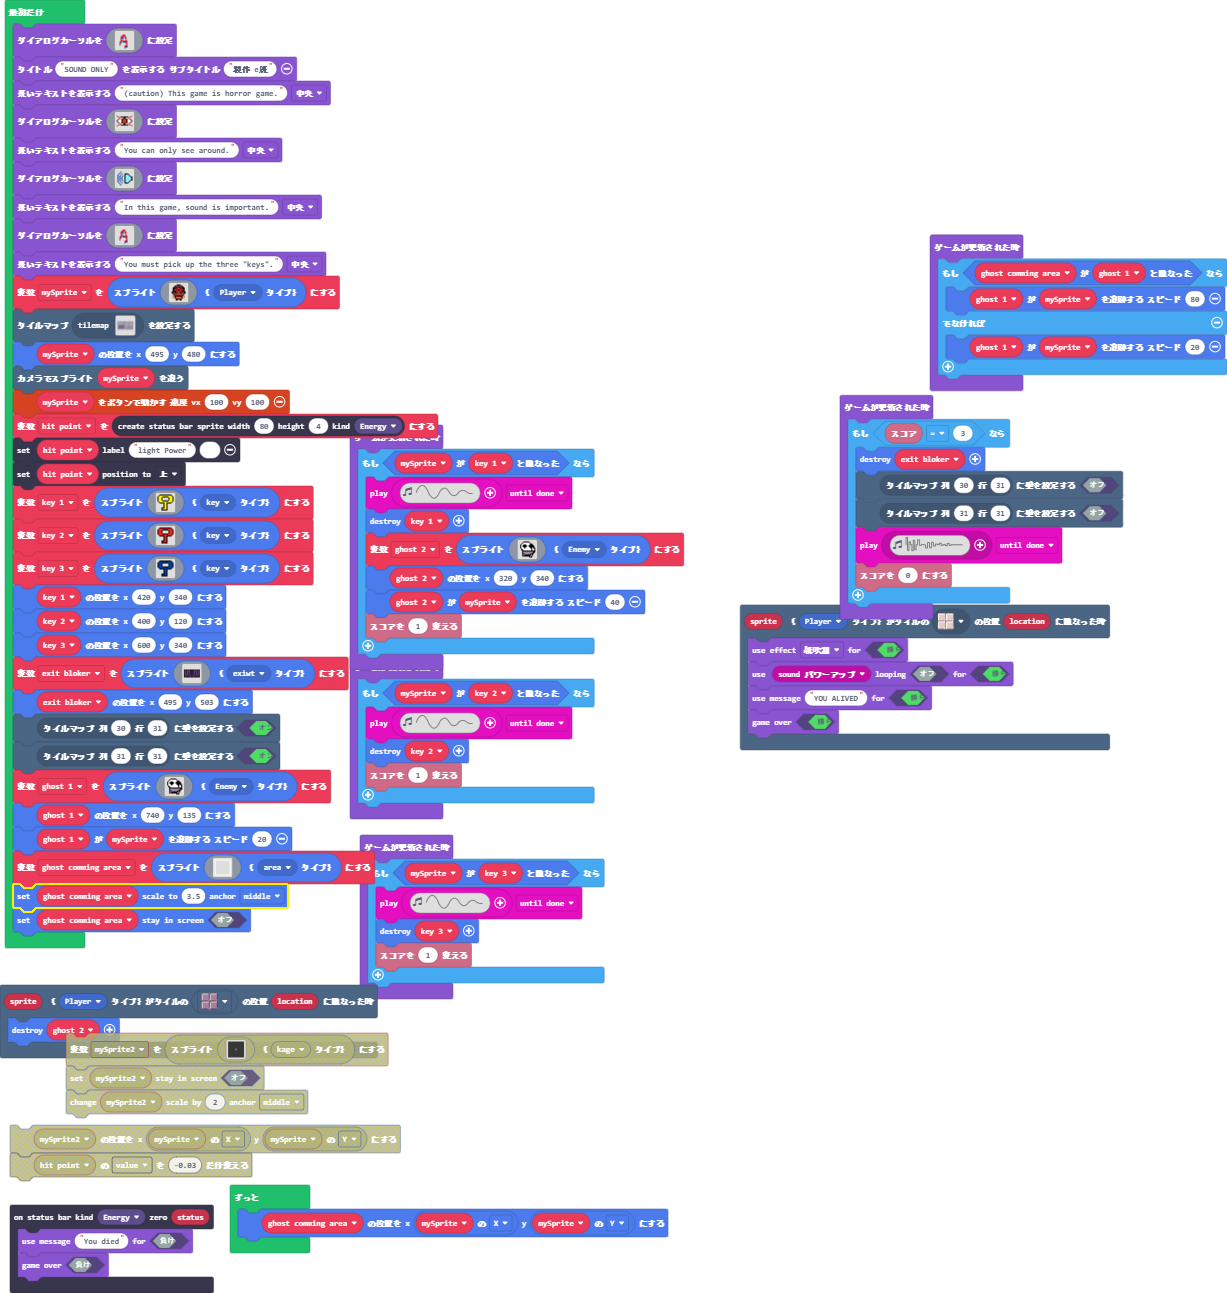
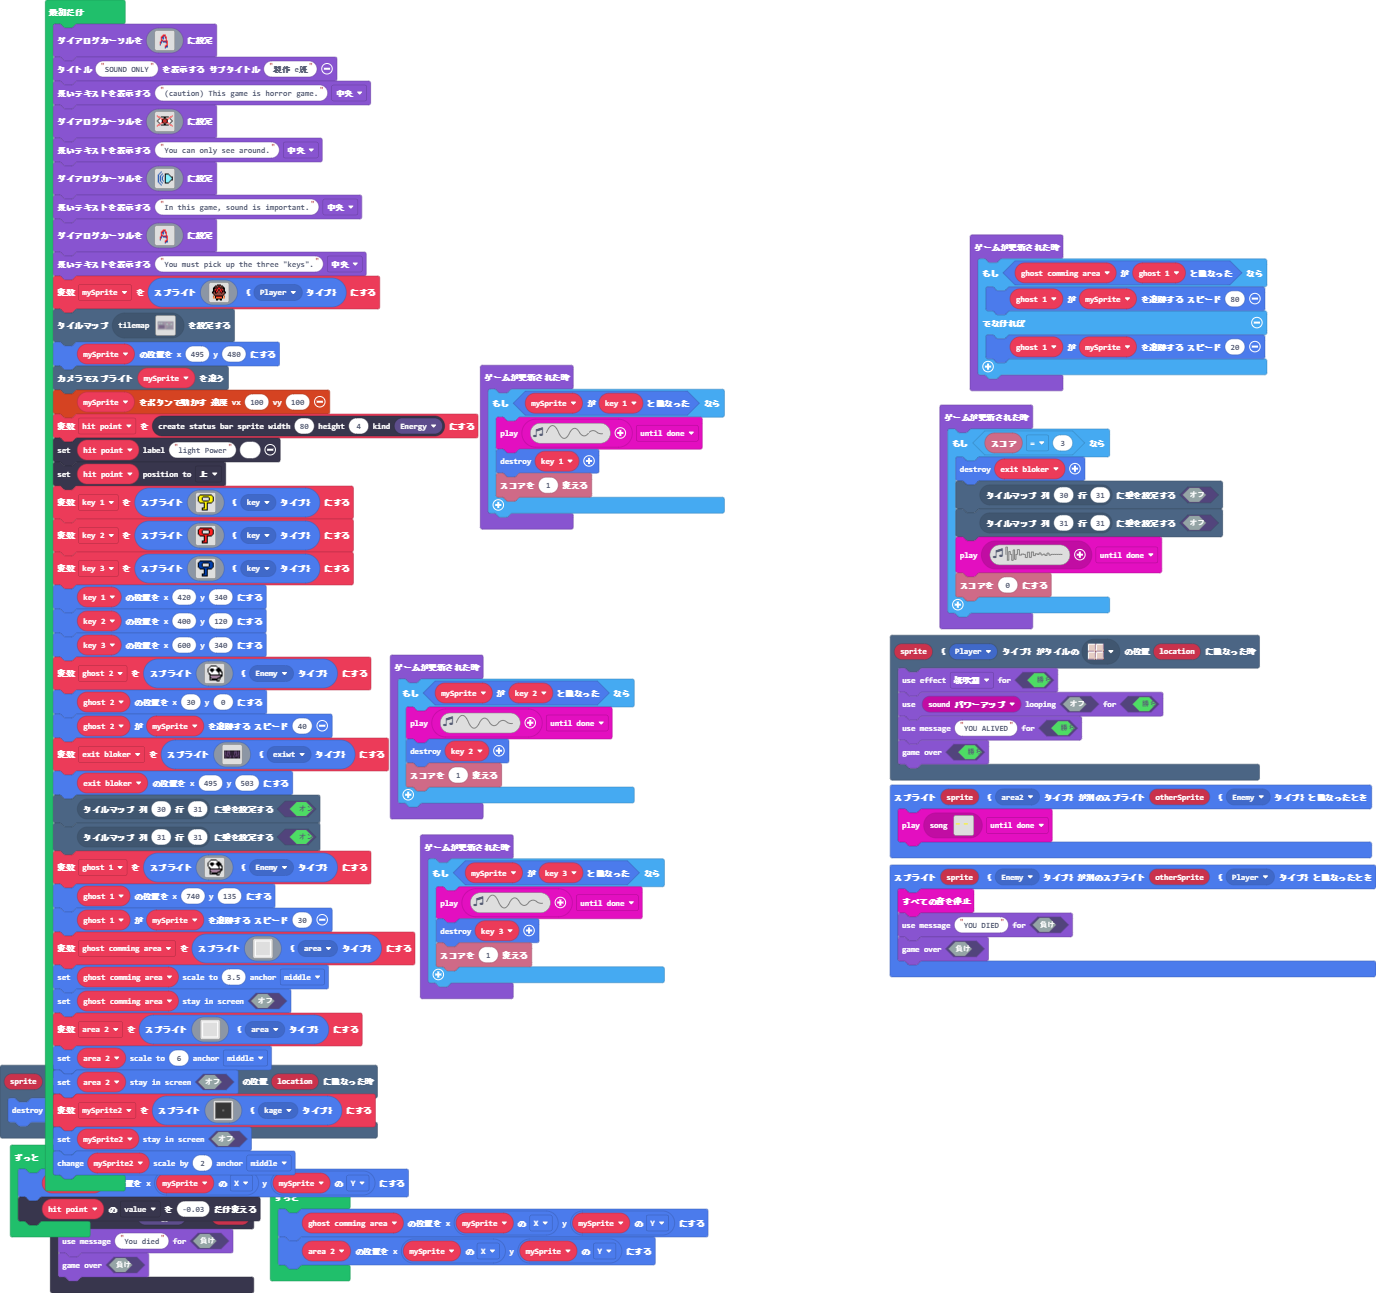
更新 main.blocks, main.ts

diff --git a/main.ts b/main.ts
@@ -5,6 +5,7 @@ namespace SpriteKind {
     export const key = SpriteKind.create()
     export const exiwt = SpriteKind.create()
     export const area = SpriteKind.create()
+    export const area2 = SpriteKind.create()
 }
 scene.onOverlapTile(SpriteKind.Player, sprites.dungeon.floorLight0, function (sprite, location) {
     game.setGameOverEffect(true, effects.confetti)
@@ -14,6 +15,14 @@ scene.onOverlapTile(SpriteKind.Player, sprites.dungeon.floorLight0, function (sp
 })
 scene.onOverlapTile(SpriteKind.Player, sprites.dungeon.floorDark0, function (sprite, location) {
     sprites.destroy(ghost_2)
+})
+sprites.onOverlap(SpriteKind.area2, SpriteKind.Enemy, function (sprite, otherSprite) {
[1 lines of base64/hex data omitted]
+})
+sprites.onOverlap(SpriteKind.Enemy, SpriteKind.Player, function (sprite, otherSprite) {
+    music.stopAllSounds()
+    game.setGameOverMessage(false, "YOU DIED")
+    game.gameOver(false)
 })
 statusbars.onZero(StatusBarKind.Energy, function (status) {
     game.setGameOverMessage(false, "You died")
@@ -128,13 +137,16 @@ let key_3 = sprites.create(assets.image`myImage`, SpriteKind.key)
 key_1.setPosition(420, 340)
 key_2.setPosition(400, 120)
 key_3.setPosition(600, 340)
+ghost_2 = sprites.create(assets.image`myImage4`, SpriteKind.Enemy)
+ghost_2.setPosition(30, 0)
+ghost_2.follow(mySprite, 40)
 let exit_bloker = sprites.create(assets.image`myImage2`, SpriteKind.exiwt)
 exit_bloker.setPosition(495, 503)
 tiles.setWallAt(tiles.getTileLocation(30, 31), true)
 tiles.setWallAt(tiles.getTileLocation(31, 31), true)
 let ghost_1 = sprites.create(assets.image`myImage4`, SpriteKind.Enemy)
 ghost_1.setPosition(740, 135)
-ghost_1.follow(mySprite, 20)
+ghost_1.follow(mySprite, 30)
 let ghost_comming_area = sprites.create(img`
     1 1 1 1 1 1 1 1 1 1 1 1 1 1 1 1 
     1 . . . . . . . . . . . . . . 1 
@@ -155,11 +167,170 @@ let ghost_comming_area = sprites.create(img`
     `, SpriteKind.area)
 ghost_comming_area.setScale(3.5, ScaleAnchor.Middle)
 ghost_comming_area.setStayInScreen(false)
+let area_2 = sprites.create(img`
+    1 1 1 1 1 1 1 1 1 1 1 1 1 1 1 1 
+    1 . . . . . . . . . . . . . . 1 
+    1 . . . . . . . . . . . . . . 1 
+    1 . . . . . . . . . . . . . . 1 
+    1 . . . . . . . . . . . . . . 1 
+    1 . . . . . . . . . . . . . . 1 
+    1 . . . . . . . . . . . . . . 1 
+    1 . . . . . . . . . . . . . . 1 
+    1 . . . . . . . . . . . . . . 1 
+    1 . . . . . . . . . . . . . . 1 
+    1 . . . . . . . . . . . . . . 1 
+    1 . . . . . . . . . . . . . . 1 
+    1 . . . . . . . . . . . . . . 1 
+    1 . . . . . . . . . . . . . . 1 
+    1 . . . . . . . . . . . . . . 1 
+    1 1 1 1 1 1 1 1 1 1 1 1 1 1 1 1 
+    `, SpriteKind.area2)
+area_2.setScale(6, ScaleAnchor.Middle)
+area_2.setStayInScreen(false)
+let mySprite2 = sprites.create(img`
+    ffffffffffffffffffffffffffffffffffffffffffffffffffffffffffffffffffffffffffffffffffffffffffffffffffffffffffffffffffffffffffffffff
+    ffffffffffffffffffffffffffffffffffffffffffffffffffffffffffffffffffffffffffffffffffffffffffffffffffffffffffffffffffffffffffffffff
+    ffffffffffffffffffffffffffffffffffffffffffffffffffffffffffffffffffffffffffffffffffffffffffffffffffffffffffffffffffffffffffffffff
+    ffffffffffffffffffffffffffffffffffffffffffffffffffffffffffffffffffffffffffffffffffffffffffffffffffffffffffffffffffffffffffffffff
+    ffffffffffffffffffffffffffffffffffffffffffffffffffffffffffffffffffffffffffffffffffffffffffffffffffffffffffffffffffffffffffffffff
+    ffffffffffffffffffffffffffffffffffffffffffffffffffffffffffffffffffffffffffffffffffffffffffffffffffffffffffffffffffffffffffffffff
+    ffffffffffffffffffffffffffffffffffffffffffffffffffffffffffffffffffffffffffffffffffffffffffffffffffffffffffffffffffffffffffffffff
+    ffffffffffffffffffffffffffffffffffffffffffffffffffffffffffffffffffffffffffffffffffffffffffffffffffffffffffffffffffffffffffffffff
+    ffffffffffffffffffffffffffffffffffffffffffffffffffffffffffffffffffffffffffffffffffffffffffffffffffffffffffffffffffffffffffffffff
+    ffffffffffffffffffffffffffffffffffffffffffffffffffffffffffffffffffffffffffffffffffffffffffffffffffffffffffffffffffffffffffffffff
+    ffffffffffffffffffffffffffffffffffffffffffffffffffffffffffffffffffffffffffffffffffffffffffffffffffffffffffffffffffffffffffffffff
+    ffffffffffffffffffffffffffffffffffffffffffffffffffffffffffffffffffffffffffffffffffffffffffffffffffffffffffffffffffffffffffffffff
+    ffffffffffffffffffffffffffffffffffffffffffffffffffffffffffffffffffffffffffffffffffffffffffffffffffffffffffffffffffffffffffffffff
+    ffffffffffffffffffffffffffffffffffffffffffffffffffffffffffffffffffffffffffffffffffffffffffffffffffffffffffffffffffffffffffffffff
+    ffffffffffffffffffffffffffffffffffffffffffffffffffffffffffffffffffffffffffffffffffffffffffffffffffffffffffffffffffffffffffffffff
+    ffffffffffffffffffffffffffffffffffffffffffffffffffffffffffffffffffffffffffffffffffffffffffffffffffffffffffffffffffffffffffffffff
+    ffffffffffffffffffffffffffffffffffffffffffffffffffffffffffffffffffffffffffffffffffffffffffffffffffffffffffffffffffffffffffffffff
+    ffffffffffffffffffffffffffffffffffffffffffffffffffffffffffffffffffffffffffffffffffffffffffffffffffffffffffffffffffffffffffffffff
+    ffffffffffffffffffffffffffffffffffffffffffffffffffffffffffffffffffffffffffffffffffffffffffffffffffffffffffffffffffffffffffffffff
+    ffffffffffffffffffffffffffffffffffffffffffffffffffffffffffffffffffffffffffffffffffffffffffffffffffffffffffffffffffffffffffffffff
+    ffffffffffffffffffffffffffffffffffffffffffffffffffffffffffffffffffffffffffffffffffffffffffffffffffffffffffffffffffffffffffffffff
+    ffffffffffffffffffffffffffffffffffffffffffffffffffffffffffffffffffffffffffffffffffffffffffffffffffffffffffffffffffffffffffffffff
+    ffffffffffffffffffffffffffffffffffffffffffffffffffffffffffffffffffffffffffffffffffffffffffffffffffffffffffffffffffffffffffffffff
+    ffffffffffffffffffffffffffffffffffffffffffffffffffffffffffffffffffffffffffffffffffffffffffffffffffffffffffffffffffffffffffffffff
+    ffffffffffffffffffffffffffffffffffffffffffffffffffffffffffffffffffffffffffffffffffffffffffffffffffffffffffffffffffffffffffffffff
+    ffffffffffffffffffffffffffffffffffffffffffffffffffffffffffffffffffffffffffffffffffffffffffffffffffffffffffffffffffffffffffffffff
+    ffffffffffffffffffffffffffffffffffffffffffffffffffffffffffffffffffffffffffffffffffffffffffffffffffffffffffffffffffffffffffffffff
+    ffffffffffffffffffffffffffffffffffffffffffffffffffffffffffffffffffffffffffffffffffffffffffffffffffffffffffffffffffffffffffffffff
+    ffffffffffffffffffffffffffffffffffffffffffffffffffffffffffffffffffffffffffffffffffffffffffffffffffffffffffffffffffffffffffffffff
+    ffffffffffffffffffffffffffffffffffffffffffffffffffffffffffffffffffffffffffffffffffffffffffffffffffffffffffffffffffffffffffffffff
+    ffffffffffffffffffffffffffffffffffffffffffffffffffffffffffffffffffffffffffffffffffffffffffffffffffffffffffffffffffffffffffffffff
+    ffffffffffffffffffffffffffffffffffffffffffffffffffffffffffffffffffffffffffffffffffffffffffffffffffffffffffffffffffffffffffffffff
+    ffffffffffffffffffffffffffffffffffffffffffffffffffffffffffffffffffffffffffffffffffffffffffffffffffffffffffffffffffffffffffffffff
+    ffffffffffffffffffffffffffffffffffffffffffffffffffffffffffffffffffffffffffffffffffffffffffffffffffffffffffffffffffffffffffffffff
+    ffffffffffffffffffffffffffffffffffffffffffffffffffffffffffffffffffffffffffffffffffffffffffffffffffffffffffffffffffffffffffffffff
+    ffffffffffffffffffffffffffffffffffffffffffffffffffffffffffffffffffffffffffffffffffffffffffffffffffffffffffffffffffffffffffffffff
+    ffffffffffffffffffffffffffffffffffffffffffffffffffffffffffffffffffffffffffffffffffffffffffffffffffffffffffffffffffffffffffffffff
+    ffffffffffffffffffffffffffffffffffffffffffffffffffffffffffffffffffffffffffffffffffffffffffffffffffffffffffffffffffffffffffffffff
+    ffffffffffffffffffffffffffffffffffffffffffffffffffffffffffffffffffffffffffffffffffffffffffffffffffffffffffffffffffffffffffffffff
+    ffffffffffffffffffffffffffffffffffffffffffffffffffffffffffffffffffffffffffffffffffffffffffffffffffffffffffffffffffffffffffffffff
+    ffffffffffffffffffffffffffffffffffffffffffffffffffffffffffffffffffffffffffffffffffffffffffffffffffffffffffffffffffffffffffffffff
+    ffffffffffffffffffffffffffffffffffffffffffffffffffffffffffffffffffffffffffffffffffffffffffffffffffffffffffffffffffffffffffffffff
+    ffffffffffffffffffffffffffffffffffffffffffffffffffffffffffffffffffffffffffffffffffffffffffffffffffffffffffffffffffffffffffffffff
+    ffffffffffffffffffffffffffffffffffffffffffffffffffffffffffffffffffffffffffffffffffffffffffffffffffffffffffffffffffffffffffffffff
+    ffffffffffffffffffffffffffffffffffffffffffffffffffffffffffffffffffffffffffffffffffffffffffffffffffffffffffffffffffffffffffffffff
+    ffffffffffffffffffffffffffffffffffffffffffffffffffffffffffffffffffffffffffffffffffffffffffffffffffffffffffffffffffffffffffffffff
+    ffffffffffffffffffffffffffffffffffffffffffffffffffffffffffffffffffffffffffffffffffffffffffffffffffffffffffffffffffffffffffffffff
+    ffffffffffffffffffffffffffffffffffffffffffffffffffffffffffffffffffffffffffffffffffffffffffffffffffffffffffffffffffffffffffffffff
+    ffffffffffffffffffffffffffffffffffffffffffffffffffffffffffffffffffffffffffffffffffffffffffffffffffffffffffffffffffffffffffffffff
+    ffffffffffffffffffffffffffffffffffffffffffffffffffffffffffffffffffffffffffffffffffffffffffffffffffffffffffffffffffffffffffffffff
+    ffffffffffffffffffffffffffffffffffffffffffffffffffffffffffffffffffffffffffffffffffffffffffffffffffffffffffffffffffffffffffffffff
+    ffffffffffffffffffffffffffffffffffffffffffffffffffffffffffffffffffffffffffffffffffffffffffffffffffffffffffffffffffffffffffffffff
+    ffffffffffffffffffffffffffffffffffffffffffffffffffffffffffffffffffffffffffffffffffffffffffffffffffffffffffffffffffffffffffffffff
+    ffffffffffffffffffffffffffffffffffffffffffffffffffffffffffffffffffffffffffffffffffffffffffffffffffffffffffffffffffffffffffffffff
+    ffffffffffffffffffffffffffffffffffffffffffffffffffffffffffffffffffffffffffffffffffffffffffffffffffffffffffffffffffffffffffffffff
+    ffffffffffffffffffffffffffffffffffffffffffffffffffffffffffffffffffffffffffffffffffffffffffffffffffffffffffffffffffffffffffffffff
+    ffffffffffffffffffffffffffffffffffffffffffffffffffffffffffffffffffffffffffffffffffffffffffffffffffffffffffffffffffffffffffffffff
+    ffffffffffffffffffffffffffffffffffffffffffffffffffffffffffffffffffffffffffffffffffffffffffffffffffffffffffffffffffffffffffffffff
+    ffffffffffffffffffffffffffffffffffffffffffffffffffffffffffff.......fffffffffffffffffffffffffffffffffffffffffffffffffffffffffffff
+    fffffffffffffffffffffffffffffffffffffffffffffffffffffffffff.........ffffffffffffffffffffffffffffffffffffffffffffffffffffffffffff
+    ffffffffffffffffffffffffffffffffffffffffffffffffffffffffff...........fffffffffffffffffffffffffffffffffffffffffffffffffffffffffff
+    ffffffffffffffffffffffffffffffffffffffffffffffffffffffffff...........fffffffffffffffffffffffffffffffffffffffffffffffffffffffffff
+    ffffffffffffffffffffffffffffffffffffffffffffffffffffffffff...........fffffffffffffffffffffffffffffffffffffffffffffffffffffffffff
+    ffffffffffffffffffffffffffffffffffffffffffffffffffffffffff...........fffffffffffffffffffffffffffffffffffffffffffffffffffffffffff
+    ffffffffffffffffffffffffffffffffffffffffffffffffffffffffff...........fffffffffffffffffffffffffffffffffffffffffffffffffffffffffff
+    ffffffffffffffffffffffffffffffffffffffffffffffffffffffffff...........fffffffffffffffffffffffffffffffffffffffffffffffffffffffffff
+    ffffffffffffffffffffffffffffffffffffffffffffffffffffffffff...........fffffffffffffffffffffffffffffffffffffffffffffffffffffffffff
+    fffffffffffffffffffffffffffffffffffffffffffffffffffffffffff.........ffffffffffffffffffffffffffffffffffffffffffffffffffffffffffff
+    ffffffffffffffffffffffffffffffffffffffffffffffffffffffffffff.......fffffffffffffffffffffffffffffffffffffffffffffffffffffffffffff
+    ffffffffffffffffffffffffffffffffffffffffffffffffffffffffffffffffffffffffffffffffffffffffffffffffffffffffffffffffffffffffffffffff
+    ffffffffffffffffffffffffffffffffffffffffffffffffffffffffffffffffffffffffffffffffffffffffffffffffffffffffffffffffffffffffffffffff
+    ffffffffffffffffffffffffffffffffffffffffffffffffffffffffffffffffffffffffffffffffffffffffffffffffffffffffffffffffffffffffffffffff
+    ffffffffffffffffffffffffffffffffffffffffffffffffffffffffffffffffffffffffffffffffffffffffffffffffffffffffffffffffffffffffffffffff
+    ffffffffffffffffffffffffffffffffffffffffffffffffffffffffffffffffffffffffffffffffffffffffffffffffffffffffffffffffffffffffffffffff
+    ffffffffffffffffffffffffffffffffffffffffffffffffffffffffffffffffffffffffffffffffffffffffffffffffffffffffffffffffffffffffffffffff
+    ffffffffffffffffffffffffffffffffffffffffffffffffffffffffffffffffffffffffffffffffffffffffffffffffffffffffffffffffffffffffffffffff
+    ffffffffffffffffffffffffffffffffffffffffffffffffffffffffffffffffffffffffffffffffffffffffffffffffffffffffffffffffffffffffffffffff
+    ffffffffffffffffffffffffffffffffffffffffffffffffffffffffffffffffffffffffffffffffffffffffffffffffffffffffffffffffffffffffffffffff
+    ffffffffffffffffffffffffffffffffffffffffffffffffffffffffffffffffffffffffffffffffffffffffffffffffffffffffffffffffffffffffffffffff
+    ffffffffffffffffffffffffffffffffffffffffffffffffffffffffffffffffffffffffffffffffffffffffffffffffffffffffffffffffffffffffffffffff
+    ffffffffffffffffffffffffffffffffffffffffffffffffffffffffffffffffffffffffffffffffffffffffffffffffffffffffffffffffffffffffffffffff
+    ffffffffffffffffffffffffffffffffffffffffffffffffffffffffffffffffffffffffffffffffffffffffffffffffffffffffffffffffffffffffffffffff
+    ffffffffffffffffffffffffffffffffffffffffffffffffffffffffffffffffffffffffffffffffffffffffffffffffffffffffffffffffffffffffffffffff
+    ffffffffffffffffffffffffffffffffffffffffffffffffffffffffffffffffffffffffffffffffffffffffffffffffffffffffffffffffffffffffffffffff
+    ffffffffffffffffffffffffffffffffffffffffffffffffffffffffffffffffffffffffffffffffffffffffffffffffffffffffffffffffffffffffffffffff
+    ffffffffffffffffffffffffffffffffffffffffffffffffffffffffffffffffffffffffffffffffffffffffffffffffffffffffffffffffffffffffffffffff
+    ffffffffffffffffffffffffffffffffffffffffffffffffffffffffffffffffffffffffffffffffffffffffffffffffffffffffffffffffffffffffffffffff
+    ffffffffffffffffffffffffffffffffffffffffffffffffffffffffffffffffffffffffffffffffffffffffffffffffffffffffffffffffffffffffffffffff
+    ffffffffffffffffffffffffffffffffffffffffffffffffffffffffffffffffffffffffffffffffffffffffffffffffffffffffffffffffffffffffffffffff
+    ffffffffffffffffffffffffffffffffffffffffffffffffffffffffffffffffffffffffffffffffffffffffffffffffffffffffffffffffffffffffffffffff
+    ffffffffffffffffffffffffffffffffffffffffffffffffffffffffffffffffffffffffffffffffffffffffffffffffffffffffffffffffffffffffffffffff
+    ffffffffffffffffffffffffffffffffffffffffffffffffffffffffffffffffffffffffffffffffffffffffffffffffffffffffffffffffffffffffffffffff
+    ffffffffffffffffffffffffffffffffffffffffffffffffffffffffffffffffffffffffffffffffffffffffffffffffffffffffffffffffffffffffffffffff
+    ffffffffffffffffffffffffffffffffffffffffffffffffffffffffffffffffffffffffffffffffffffffffffffffffffffffffffffffffffffffffffffffff
+    ffffffffffffffffffffffffffffffffffffffffffffffffffffffffffffffffffffffffffffffffffffffffffffffffffffffffffffffffffffffffffffffff
+    ffffffffffffffffffffffffffffffffffffffffffffffffffffffffffffffffffffffffffffffffffffffffffffffffffffffffffffffffffffffffffffffff
+    ffffffffffffffffffffffffffffffffffffffffffffffffffffffffffffffffffffffffffffffffffffffffffffffffffffffffffffffffffffffffffffffff
+    ffffffffffffffffffffffffffffffffffffffffffffffffffffffffffffffffffffffffffffffffffffffffffffffffffffffffffffffffffffffffffffffff
+    ffffffffffffffffffffffffffffffffffffffffffffffffffffffffffffffffffffffffffffffffffffffffffffffffffffffffffffffffffffffffffffffff
+    ffffffffffffffffffffffffffffffffffffffffffffffffffffffffffffffffffffffffffffffffffffffffffffffffffffffffffffffffffffffffffffffff
+    ffffffffffffffffffffffffffffffffffffffffffffffffffffffffffffffffffffffffffffffffffffffffffffffffffffffffffffffffffffffffffffffff
+    ffffffffffffffffffffffffffffffffffffffffffffffffffffffffffffffffffffffffffffffffffffffffffffffffffffffffffffffffffffffffffffffff
+    ffffffffffffffffffffffffffffffffffffffffffffffffffffffffffffffffffffffffffffffffffffffffffffffffffffffffffffffffffffffffffffffff
+    ffffffffffffffffffffffffffffffffffffffffffffffffffffffffffffffffffffffffffffffffffffffffffffffffffffffffffffffffffffffffffffffff
+    ffffffffffffffffffffffffffffffffffffffffffffffffffffffffffffffffffffffffffffffffffffffffffffffffffffffffffffffffffffffffffffffff
+    ffffffffffffffffffffffffffffffffffffffffffffffffffffffffffffffffffffffffffffffffffffffffffffffffffffffffffffffffffffffffffffffff
+    ffffffffffffffffffffffffffffffffffffffffffffffffffffffffffffffffffffffffffffffffffffffffffffffffffffffffffffffffffffffffffffffff
+    ffffffffffffffffffffffffffffffffffffffffffffffffffffffffffffffffffffffffffffffffffffffffffffffffffffffffffffffffffffffffffffffff
+    ffffffffffffffffffffffffffffffffffffffffffffffffffffffffffffffffffffffffffffffffffffffffffffffffffffffffffffffffffffffffffffffff
+    ffffffffffffffffffffffffffffffffffffffffffffffffffffffffffffffffffffffffffffffffffffffffffffffffffffffffffffffffffffffffffffffff
+    ffffffffffffffffffffffffffffffffffffffffffffffffffffffffffffffffffffffffffffffffffffffffffffffffffffffffffffffffffffffffffffffff
+    ffffffffffffffffffffffffffffffffffffffffffffffffffffffffffffffffffffffffffffffffffffffffffffffffffffffffffffffffffffffffffffffff
+    ffffffffffffffffffffffffffffffffffffffffffffffffffffffffffffffffffffffffffffffffffffffffffffffffffffffffffffffffffffffffffffffff
+    ffffffffffffffffffffffffffffffffffffffffffffffffffffffffffffffffffffffffffffffffffffffffffffffffffffffffffffffffffffffffffffffff
+    ffffffffffffffffffffffffffffffffffffffffffffffffffffffffffffffffffffffffffffffffffffffffffffffffffffffffffffffffffffffffffffffff
+    ffffffffffffffffffffffffffffffffffffffffffffffffffffffffffffffffffffffffffffffffffffffffffffffffffffffffffffffffffffffffffffffff
+    ffffffffffffffffffffffffffffffffffffffffffffffffffffffffffffffffffffffffffffffffffffffffffffffffffffffffffffffffffffffffffffffff
+    ffffffffffffffffffffffffffffffffffffffffffffffffffffffffffffffffffffffffffffffffffffffffffffffffffffffffffffffffffffffffffffffff
+    ffffffffffffffffffffffffffffffffffffffffffffffffffffffffffffffffffffffffffffffffffffffffffffffffffffffffffffffffffffffffffffffff
+    ffffffffffffffffffffffffffffffffffffffffffffffffffffffffffffffffffffffffffffffffffffffffffffffffffffffffffffffffffffffffffffffff
+    ffffffffffffffffffffffffffffffffffffffffffffffffffffffffffffffffffffffffffffffffffffffffffffffffffffffffffffffffffffffffffffffff
+    ffffffffffffffffffffffffffffffffffffffffffffffffffffffffffffffffffffffffffffffffffffffffffffffffffffffffffffffffffffffffffffffff
+    ffffffffffffffffffffffffffffffffffffffffffffffffffffffffffffffffffffffffffffffffffffffffffffffffffffffffffffffffffffffffffffffff
+    ffffffffffffffffffffffffffffffffffffffffffffffffffffffffffffffffffffffffffffffffffffffffffffffffffffffffffffffffffffffffffffffff
+    ffffffffffffffffffffffffffffffffffffffffffffffffffffffffffffffffffffffffffffffffffffffffffffffffffffffffffffffffffffffffffffffff
+    ffffffffffffffffffffffffffffffffffffffffffffffffffffffffffffffffffffffffffffffffffffffffffffffffffffffffffffffffffffffffffffffff
+    ffffffffffffffffffffffffffffffffffffffffffffffffffffffffffffffffffffffffffffffffffffffffffffffffffffffffffffffffffffffffffffffff
+    ffffffffffffffffffffffffffffffffffffffffffffffffffffffffffffffffffffffffffffffffffffffffffffffffffffffffffffffffffffffffffffffff
+    `, SpriteKind.kage)
+mySprite2.setStayInScreen(false)
+mySprite2.changeScale(2, ScaleAnchor.Middle)
 game.onUpdate(function () {
     if (ghost_comming_area.overlapsWith(ghost_1)) {
         ghost_1.follow(mySprite, 80)
     } else {
         ghost_1.follow(mySprite, 20)
+    }
+})
+game.onUpdate(function () {
+    if (mySprite.overlapsWith(key_1)) {
+        music.play(music.createSoundEffect(WaveShape.Sine, 1069, 2731, 255, 0, 100, SoundExpressionEffect.Vibrato, InterpolationCurve.Curve), music.PlaybackMode.UntilDone)
+        sprites.destroy(key_1)
+        info.changeScoreBy(1)
     }
 })
 game.onUpdate(function () {
@@ -169,16 +340,6 @@ game.onUpdate(function () {
         tiles.setWallAt(tiles.getTileLocation(31, 31), false)
         music.play(music.createSoundEffect(WaveShape.Noise, 1693, 2345, 255, 0, 500, SoundExpressionEffect.Tremolo, InterpolationCurve.Linear), music.PlaybackMode.UntilDone)
         info.setScore(0)
-    }
-})
-game.onUpdate(function () {
-    if (mySprite.overlapsWith(key_1)) {
-        music.play(music.createSoundEffect(WaveShape.Sine, 1069, 2731, 255, 0, 100, SoundExpressionEffect.Vibrato, InterpolationCurve.Curve), music.PlaybackMode.UntilDone)
-        sprites.destroy(key_1)
-        ghost_2 = sprites.create(assets.image`myImage4`, SpriteKind.Enemy)
-        ghost_2.setPosition(320, 340)
-        ghost_2.follow(mySprite, 40)
-        info.changeScoreBy(1)
     }
 })
 game.onUpdate(function () {
@@ -196,5 +357,10 @@ game.onUpdate(function () {
     }
 })
 forever(function () {
+    mySprite2.setPosition(mySprite.x, mySprite.y)
+    hit_point.value += -0.03
+})
+forever(function () {
     ghost_comming_area.setPosition(mySprite.x, mySprite.y)
+    area_2.setPosition(mySprite.x, mySprite.y)
 })
